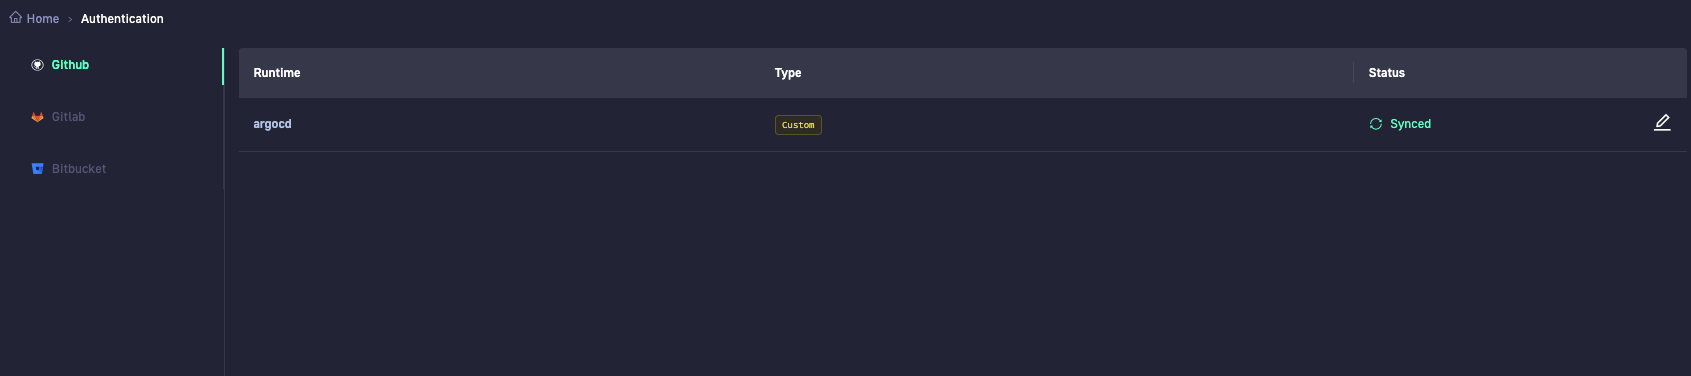
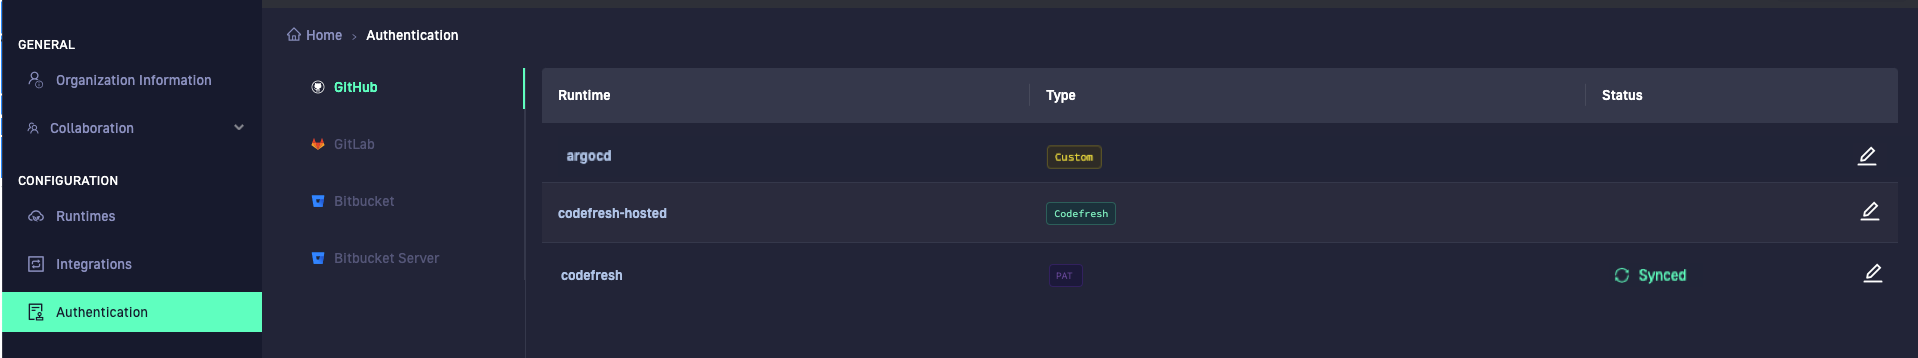
Cf pats oauth admin setup (#249)
* Update oath for git providers

Added gitlab and bitbucket

* Update oauth2 setup

Content update with scopes and steps for new Git providers supported

* Update oauth-setup.md

* Update oauth-setup.md

* Update oauth-setup.md

* Update oauth-setup.md

* Update oauth-setup.md

diff --git a/_docs/administration/oauth-setup.md b/_docs/administration/oauth-setup.md
@@ -1,30 +1,13 @@
 ---
-title: "Set up OAuth2 authentication"
+title: "Set up OAuth2 authentication for Git providers"
 description: ""
 group: administration
 toc: true
 ---
 
-Easily Connect Codefresh to your Git provider using OAuth2. 
-Codefresh integrates with Git to sync repositories to your clusters, implementing Git-based operations when creating resources such as Delivery Pipelines, and to enrich Images with valuable information.
+Codefresh integrates with the Git provider defined for your runtime account to sync repositories to your clusters, implementing Git-based operations when creating resources such as Delivery Pipelines, applications, and enriching images with valuable information.  
 
-
-Codefresh supports OAuth2 or Personal Access Tokens (PATs) for authentication:
-
-* OAuth2 with Codefresh OAuth Application or custom OAuth2 Application
-
-  OAuth2 is the preferred authentication mechanism, currently supported for GitHub. You have the option to use the default pre-defined Codefresh OAuth Application, or your own Oauth2 Application in your Git account. 
-  To use your own Oauth2 GitHub Application, create a secret on your K8s cluster and configure it in Authentication > Settings. See [Create a custom OAuth2 provider account](#create-a-custom-oauth2-provider-account) in this article.
-  
-
-  > A runtime can have only one active account for authentication. 
-
-* Token-based authentication using PAT  
-  With token-based authentication, users must enter their personal access tokens when prompted to authorize access. Token-based authentication for users is described in [Managing Git personal access tokens]({{site.baseurl}}/docs/administration/user-settings/).
-
-
-### Authentication provider accounts
-The authentication accounts created for a provider are displayed in the [Authentication](https://g.codefresh.io/2.0/account-settings/authentication?providerName=github){:target="\_blank"}.  
+As the account administrator, you can select the authentication method for a runtime account. Users in Codefresh will then authorize access to the Git providers through the defined mechanism.  
 
 {% include 
    image.html 
@@ -33,42 +16,100 @@ The authentication accounts created for a provider are displayed in the [Authent
    url="/images/authentication/authentication-list.png" 
    alt="Git provider authentication accounts" 
    caption="Git provider authentication accounts"
-   max-width="60%" 
+   max-width="80%" 
    %}
-The authentication accounts are organized by Runtimes. Every runtime can have a single authentication account.   
-The Type column identifies the provider account type as either Codefresh or Custom. You can change the provider type to Codefresh or Custom or select manual token entry as the authentication.  
+
+Codefresh supports OAuth2 or personal access tokens (PATs) for authentication:  
+
+* OAuth2 with Codefresh OAuth Application or custom OAuth2 Application  
+  OAuth2 is the preferred authentication mechanism, supported for popular Git providers such as GitHub, GitHub Enterprise, GitLab Cloud and Server, and Bitbucket Cloud and Server.  
+  You have the option to use the default predefined Codefresh OAuth Application, or a custom Oauth2 Application for Codefresh in your Git provider account.  
+  Hosted runtime accounts automatically use Codefresh's predefined OAuth Application.  
+  To use a custom Oauth2 Application for Codefresh, first create the application in your Git provider account, then create a secret on your K8s cluster, and finally configure OAuth2 access for the custom application in Authentication > Settings. See [Create a custom OAuth2 Application for Git provider](#create-a-custom-oauth2-provider-account) in this article.
+
+* Token-based authentication using PAT  
+  With token-based authentication, users must generate personal access tokens from their Git providers with the required scopes and enter their personal access tokens when prompted to authorize access. See [Authorize Git access in Codefresh]({{site.baseurl}}/docs/administration/user-settings/#authorize-git-access-in-codefresh).
 
 
-### Create a custom OAuth2 provider account 
-Codefresh account administrators can create an OAuth2 Application in GitHub, and set up authentication within Codefresh. Users in Codefresh can then authorize access to GitHub using OAuth2, instead of generating a personal access token to perform Git-based actions.  
 
-To set up OAuth2 authorization for GitHub in Codefresh, you must:
-* Create a GitHub OAuth2 Application for Codefresh 
-* Create a K8s `secret` in the runtime cluster with OAuth2 Application credentials
-* Configure OAuth2 settings in Codefresh to create a K8s `ConfigMap` that references the secret
+### Authentication for Git providers and runtime accounts
+The [Authentication](https://g.codefresh.io/2.0/account-settings/authentication?providerName=github){:target="\_blank"} page displays the accounts by Git provider and the authentication method selected for the same.  
 
-#### Step 1: Create GitHub OAuth2 Application
+Authentication accounts are organized by Runtimes. A runtime can have a single authentication account.   
+The Type column identifies the authentication for the provider account as either Codefresh, Custom, or PAT (personal access token). 
+
+{% include 
+   image.html 
+   lightbox="true" 
+   file="/images/authentication/authentication-list.png" 
+   url="/images/authentication/authentication-list.png" 
+   alt="Git provider authentication accounts" 
+   caption="Git provider authentication accounts"
+   max-width="80%" 
+   %}
+ 
+As the account administrator, you can change the authentication method for an account at any time to either Codefresh or Custom, or manual token entry. See [Select authentication mechanism for runtime](#select-authentication-mechanism-for-runtime).
+
+### Create a custom OAuth2 Application for Git provider 
+Create a custom OAuth2 Application for Codefresh in your Git provider accounts with the correct scopes, and set up authentication for the same within Codefresh. Users in Codefresh can then authorize access to the Git provider using OAuth2, instead of a personal access token.  
+
+Supported Git providers:
+* GitHub and GitHub Enterprise
+* GitLab Cloud and GitLab Server
+* Bitbucket Cloud (hosted) and Bitbucket Server (hybrid)
+
+{::nomarkdown}
+<br>
+{:/}
+
+To set up OAuth2 authorization in Codefresh, you must:
+1. [Create Custom OAuth2 Application in Git](#step-1-create-a-custom-oauth2-application-in-git) 
+1. [Create a K8s `secret` in the runtime cluster](#step-2-create-a-k8s-secret-resource-in-the-runtime-cluster)
+1. [Configure OAuth2 settings for Custom Application in Codefresh](#step-3-configure-oauth2-settings-for-custom-application-in-codefresh)
+
+{::nomarkdown}
+<br>
+{:/}
+
+#### Step 1: Create a custom OAuth2 Application in Git
 Create and register an OAuth App under your organization to authorize Codefresh.  
 
-> Make sure your OAuth app has `repo` scope with write access to code. For more information, see [Scopes for OAuth apps](https://docs.github.com/en/developers/apps/building-oauth-apps/scopes-for-oauth-apps){:target="\_blank"}.   
+1. Follow the step-by-step instructions for your Git provider:   
 
-1. Follow the step-by-step instructions in [GitHub](https://docs.github.com/en/developers/apps/building-oauth-apps/creating-an-oauth-app){:target="\_blank"}.   
-  For the `Authorization callback URL`, enter this value:  
-    `<ingressHost>/app-proxy/api/git-auth/github/callback`  
-    where:  
-    `<ingressHost>` is the IP address or URL of the ingress host in the runtime cluster. 
-1. Make sure **Enable Device Flow** is _not_ selected. 
-1. Select **Register application**. 
-   The client ID is automatically generated, and you are prompted to generate the client secret.
-1. Select **Generate a new client secret**, and copy the generated secret. 
-1. Note down the following:
-  * Application ID from the URL
-  * Client ID and the client secret  
+  * [GitHub](https://docs.github.com/en/developers/apps/building-oauth-apps/creating-an-oauth-app){:target="\_blank"}:      
+    * For **Authorization callback URL**, enter this value:  
+       `<ingressHost>/app-proxy/api/git-auth/github/callback`  
+       where:  
+       `<ingressHost>` is the IP address or URL of the ingress host in the runtime cluster.
+    * Make sure **Enable Device Flow** is _not_ selected. 
+    * Select **Register application**. 
+       The client ID is automatically generated, and you are prompted to generate the client secret.
+    * Select **Generate a new client secret**, and copy the generated secret.  
 
-You need them to create the K8s secret for the GitHub OAuth2 application.
+  * [GitLab Cloud and Server](https://docs.gitlab.com/ee/integration/oauth_provider.html#user-owned-applications){:target="\_blank"}:   
+    * For **Redirect URI**, enter this value:   
+      `<ingressHost>/app-proxy/api/git-auth/gitlab/callback`  
+      where:  
+      `<ingressHost>` is the IP address or URL of the ingress host in the runtime cluster.  
+
+  * [Bitbucket Server](https://confluence.atlassian.com/adminjiraserver0902/configure-an-outgoing-link-1168853925.html){:target="\_blank"}:      
+    * For **Callback URL**, enter this value:  
+      `<ingressHost>/app-proxy/api/git-auth/bitbucket-server/callback`  
+      where:  
+      `<ingressHost>` is the IP address or URL of the ingress host in the runtime cluster.
+
+{:start="2"}
+1. Note down the following, as you will need them to create the K8s secret for the Git OAuth2 application:
+  * GitHub: Application ID from the URL, Client ID, and the client secret  
+  * GitLab Cloud and Server: Application ID and Secret
+  * Bitbucket Server: Key and Secret
+
+{::nomarkdown}
+<br>
+{:/}
 
 #### Step 2: Create a K8s secret resource in the runtime cluster 
-Create a K8s secret in the runtime cluster, using the example below as a guideline. You must define the application ID (`appId`), client ID (`clientId`) and the client secret (`clientSecret`) from the GitHub OAuth2 Application you created, and the GitHub URL (`url`).  
+Create a K8s secret in the runtime cluster, using the example below as a guideline. You must define the application ID (`appId`), client ID (`clientId`) and the client secret (`clientSecret`) from the OAuth2 Application you created in your Git provider, and the Git URL (`url`).  
 
 > All fields in the secret _must be_ encoded in `base64`.  
   To encode, use this command: `echo -n VALUE | base64`.  
@@ -77,10 +118,10 @@ Create a K8s secret in the runtime cluster, using the example below as a guideli
 **Before you begin**  
 
 Make sure you have the following handy:
-* Application ID from the application's URL
-* Client ID 
-* Client secret
-* GitHub URL
+* GitHub: Application ID from the URL, Client ID, and the client secret  
+* GitLab Cloud and Server: Application ID and Secret
+* Bitbucket Server: Key and Secret
+
 
 **How to**  
 
@@ -96,27 +137,31 @@ metadata:
   labels:
     codefresh_io_entity: git-pat-obtainer-sec
 data:
-  appId: # application ID of your OAuth app from GitHub
-  clientId: # client ID of your OAuth app from GitHub
-  clientSecret: # client secret of your OAuth app from GitHub
-  url: https://github.com # GitHub provider URL which by default is github.com, unless self-hosted provider
+  appId: # application ID of your OAuth app
+  clientId: # client ID of your OAuth app 
+  clientSecret: # client secret of your OAuth app
+  url: https://github.com # Git provider URL which by default is github.com, unless self-hosted provider
 ```
 
 {:start="2"}
 1. Apply the secret to the runtime cluster:  
    `kubectl apply -f <filename>`   
    
+{::nomarkdown}
+<br>
+{:/}
 
-#### Step 3: Configure OAuth2 settings in Codefresh 
+#### Step 3: Configure OAuth2 settings for Custom Application in Codefresh 
 
-To complete custom provider authentication, configure the settings for the OAuth2 GitHub application in Codefresh. Configuring the settings creates a K8s ConfigMap that references the OAuth secret credentials. When configuring the settings, you can work in Form mode, or directly in the YAML manifest. 
+Configure the settings for the Custom OAuth2 Application in Codefresh. Configuring the settings creates a K8s ConfigMap that references the OAuth secret credentials. When configuring the settings, you can work in Form mode, or directly update the YAML manifest. 
 
 >Important:  
   > The values for all the settings in the ConfigMap are the `keys` in the secret file. 
 
 1. In the Codefresh UI, go to [Authentication](https://g.codefresh.io/2.0/account-settings/authentication?providerName=github){:target="\_blank"}.
   The list always shows the default predefined Codefresh provider account and custom provider accounts created, organized by Runtime, Type (Codefresh or Custom) and Status. 
-1. From the list, select the runtime to which to apply the current configuration. The runtime must be identical to the runtime to which you saved the K8s secret.
+1. From the list, select the Git provider and the runtime to which to apply the current configuration. 
+   >The runtime must be identical to the runtime to which you saved the K8s secret.
 1. Click **Edit** and then select **Use custom provider**.
    > If you have managed clusters registered to the selected runtime, the authentication account is available to all the clusters.  
   The settings page is opened in **Form** mode.
@@ -132,13 +177,13 @@ To complete custom provider authentication, configure the settings for the OAuth
    %}
 
 {:start="4"}
-1. Configure the settings for the **GitHub OAuth2 Application**, either in **Form** or in **YAML** modes:
+1. Configure the settings for the **Git OAuth2 Application**, either in **Form** or in **YAML** modes:
   * **Secret Name**: The name of the K8s secret file you created in the runtime cluster.
   * **Secret Namespace**: The namespace in the runtime cluster where you created the K8s secret.
   * **Application ID**: The `key` representing the OAuth application ID in the K8s secret. For example, `appId`.
   * **Client ID**: The `key` representing the client ID in the K8s secret. For example, `clientId`.
   * **Client Secret**: The `key` representing the client secret in the K8s secret. For example, `clientSecret`.
-  * **URL**: The `key` representing the provider URL in the K8s secret. For example, `url`.
+  * **URL**: The `key` representing the Git provider URL in the K8s secret. For example, `url`.
 
 {:start="5"}
 1. Click **Commit**.
@@ -160,10 +205,10 @@ To complete custom provider authentication, configure the settings for the OAuth
 1. Optional. Enter a commit message.
 1. At the bottom-right, click **Commit** once again.
 
-You have completed the setup to authorize Codefresh as an OAuth App in GitHub. 
+You have completed the setup to authorize Codefresh as an OAuth App for your Git provider. 
 
-### Select authentication account for runtime
-For a Git provider and a runtime account, switch between the Codefresh, Custom provider account if one exists, or enforce token-based authentication.
+### Select authentication mechanism for runtime
+For a Git provider and a runtime account, select the authentication mechanism: Codefresh account, Custom provider account if one exists, or token-based authentication.
 
 1. In the Codefresh UI, go to [Authentication](https://g.codefresh.io/2.0/account-settings/authentication?providerName=github){:target="\_blank"}.
 1. Select the runtime, and click ![](/images/administration/users/icon-Edit.png?display=inline-block) **Edit**. 

diff --git a/_docs/reference/git-tokens.md b/_docs/reference/git-tokens.md
@@ -28,7 +28,7 @@ Codefresh requires two types of Git tokens for authentication:
 
 
 
-### Git runtime tokens
+### Git runtime token scopes
 The Git runtime token is mandatory for runtime installation.
 
 {::nomarkdown}
@@ -55,16 +55,17 @@ The Git runtime token is mandatory for runtime installation.
 
 #### Bitbucket Server runtime token scopes
 
-* `Project admin`
-* `Repository write`
-* `Project read`
+* **Permissions**: `Read`
+* **Workspace membership**: `Read`
+* **Webhooks**: `Read and write`
+* **Repositories**: `Write`, `Admin`
 
 {::nomarkdown}
 </br></br>
 {:/}
 
 ### Git personal tokens
-The Git personal token is a user-specific personal access token per provisioned runtime. Unique to each user, it is required after installation to authenticate Git-based actions per runtime in Codefresh. 
+The Git personal token is a user-specific personal access token per provisioned runtime. Unique to each user, it may be required after to authenticate Git-based actions per runtime in Codefresh, based on how your admin has set up authentication for Git providers. 
 
 > If you have access to multiple runtimes, you can use the same personal access token for all the runtimes.   
   You must configure the token for each runtime.
@@ -100,8 +101,9 @@ The Git personal token is a user-specific personal access token per provisioned 
 
 #### Bitbucket Server personal user token scopes
 
-* `Project read`
-* `Repository write`
+* **Permissions**: `Read`
+* **Workspace membership**: `Read`
+* **Repositories**: `Write`, `Admin`
 
 ### Related articles  
 [User settings]({{site.baseurl}}/docs/administration/user-settings/)
